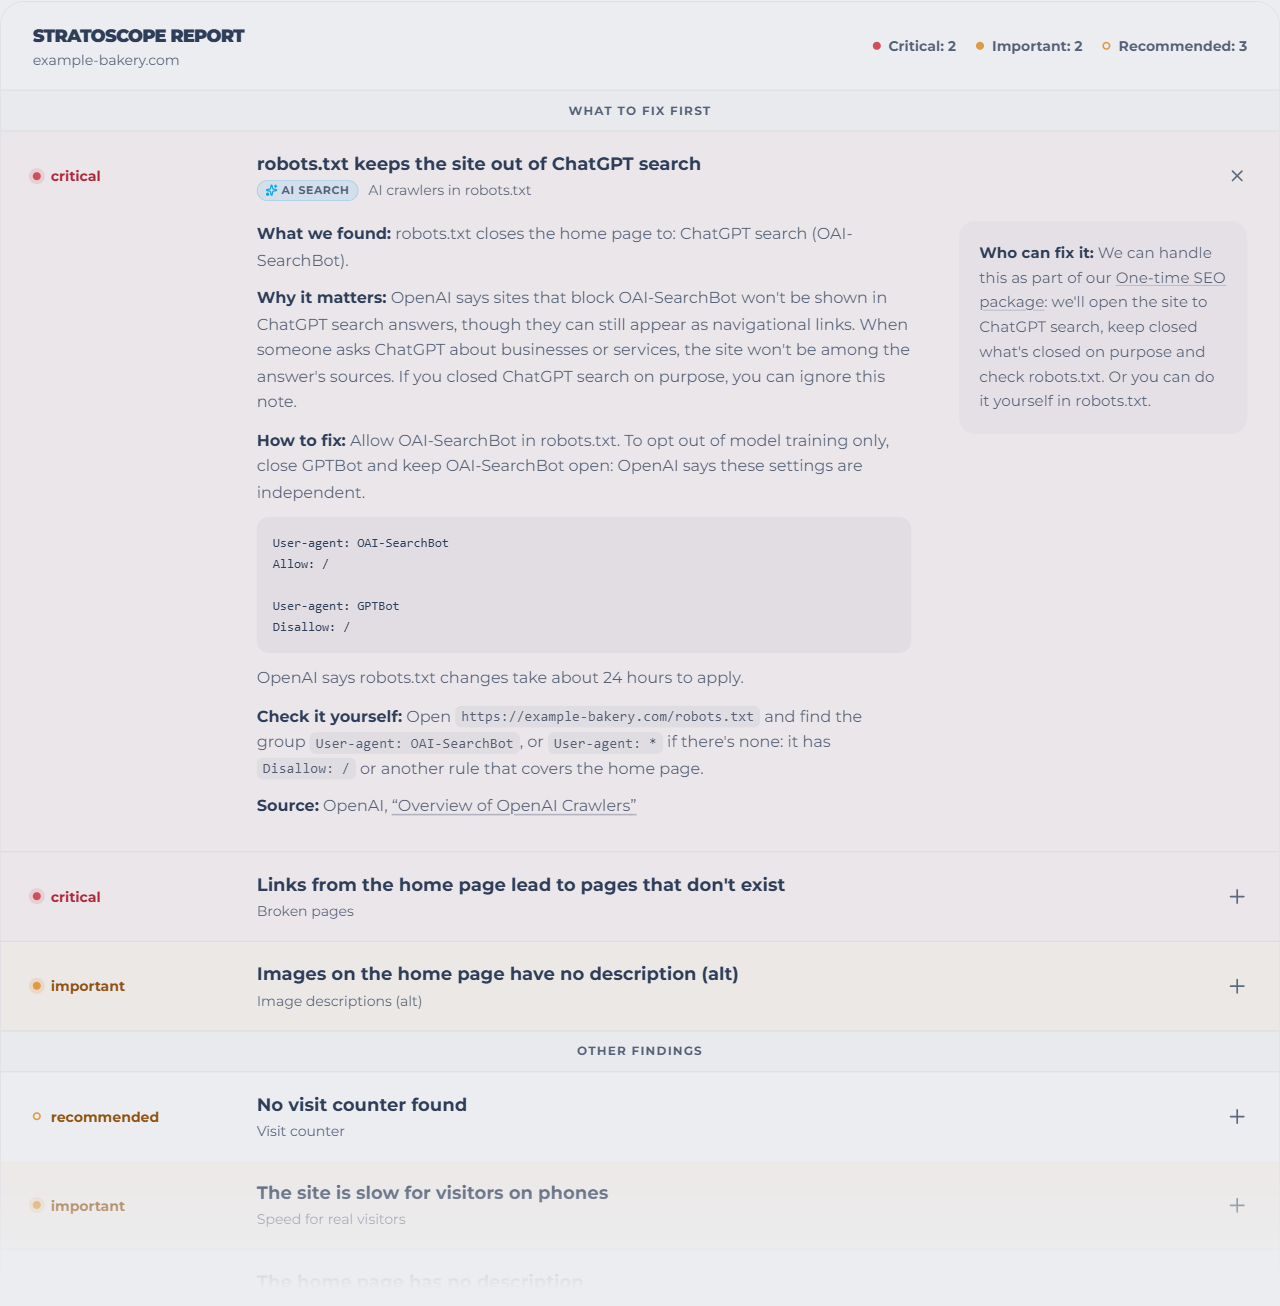
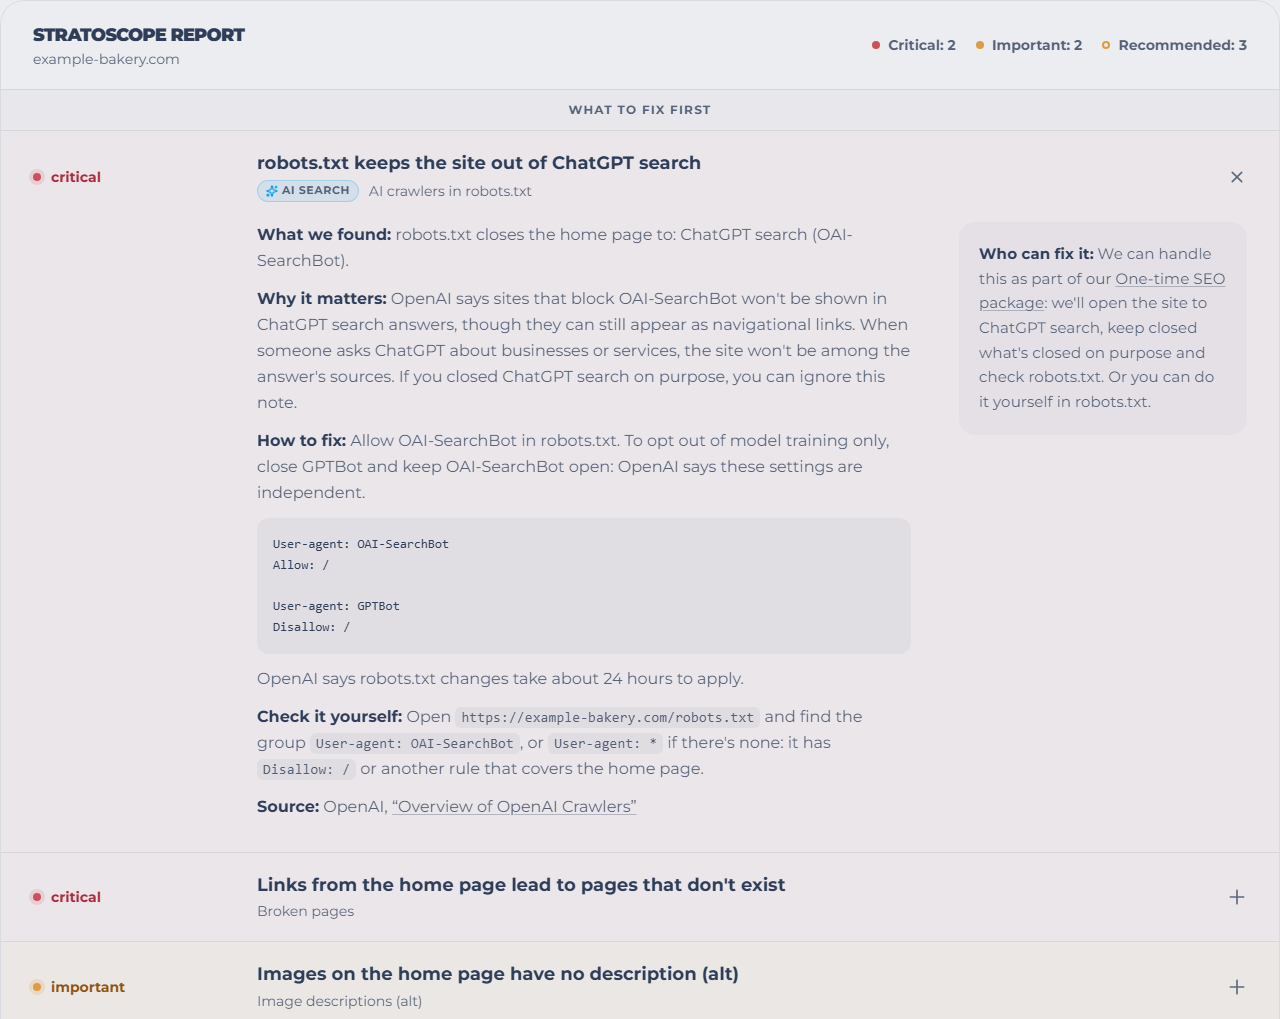
README: how it was built, numbers, runnable tests, new screenshots
The robots.txt excerpt is the fixed matcher: the earlier one slowed down
to seconds per address on a robots.txt of many stars, found by a review
and fixed in the source with a test. The robots.txt and address tests
sit next to their excerpts and run as they are with node --test. "How I
built it" says who decided what, "In numbers" gives the size and age of
the source. Both screenshots are retaken on an emulated phone and a
desktop, cut before the placeholder rows, and the main one heads the
README.

diff --git a/snippets/robots.test.ts b/snippets/robots.test.ts
@@ -1,0 +1,128 @@
+// From Stratoscope: src/lib/scan/robots.test.ts (full file). Source is private.
+import assert from 'node:assert/strict'
+import { test } from 'node:test'
+import { governingAgent, isAllowed, parseRobots } from './robots.ts'
+
+function robots(text: string) {
+  return parseRobots(Buffer.from(text))
+}
+
+function allowed(text: string, path: string, agent = 'googlebot'): boolean {
+  return isAllowed(robots(text), agent, `https://example.com${path}`)
+}
+
+function blockedPaths(text: string, paths: string[]): string[] {
+  return paths.filter((path) => !allowed(text, path))
+}
+
+test('matches path prefixes case-sensitively (Google examples)', () => {
+  const rules = 'User-agent: *\nDisallow: /fish'
+  assert.deepEqual(
+    blockedPaths(rules, ['/fish', '/fish.html', '/fish/salmon.html', '/fishheads', '/fish.php?id=1', '/Fish.asp', '/catfish', '/?id=fish']),
+    ['/fish', '/fish.html', '/fish/salmon.html', '/fishheads', '/fish.php?id=1'],
+  )
+  assert.deepEqual(
+    blockedPaths('User-agent: *\nDisallow: /fish/', ['/fish/', '/fish/?id=1', '/fish', '/fish.html', '/animals/fish/']),
+    ['/fish/', '/fish/?id=1'],
+  )
+})
+
+test('supports * and a final $ (Google examples)', () => {
+  const paths = ['/index.php', '/folder/a.php?x=1', '/a.php/', '/a.php5', '/windows.PHP', '/']
+  assert.deepEqual(blockedPaths('User-agent: *\nDisallow: /*.php', paths), ['/index.php', '/folder/a.php?x=1', '/a.php/', '/a.php5'])
+  assert.deepEqual(blockedPaths('User-agent: *\nDisallow: /*.php$', paths), ['/index.php'])
+  assert.deepEqual(
+    blockedPaths('User-agent: *\nDisallow: /fish*.php', ['/fish.php', '/fishheads/catfish.php?x=1', '/Fish.PHP']),
+    ['/fish.php', '/fishheads/catfish.php?x=1'],
+  )
+})
+
+test('the longest matching rule wins, and allow wins a tie (Google examples)', () => {
+  assert.equal(allowed('User-agent: *\nAllow: /p\nDisallow: /', '/page'), true)
+  assert.equal(allowed('User-agent: *\nAllow: /folder\nDisallow: /folder', '/folder/page'), true)
+  assert.equal(allowed('User-agent: *\nDisallow: /folder\nAllow: /folder', '/folder/page'), true)
+  assert.equal(allowed('User-agent: *\nAllow: /page\nDisallow: /*.htm', '/page.htm'), false)
+  assert.equal(allowed('User-agent: *\nDisallow: /*.ph\nAllow: /page', '/page.php'), true)
+  assert.equal(allowed('User-agent: *\nAllow: /$\nDisallow: /', '/'), true)
+  assert.equal(allowed('User-agent: *\nAllow: /$\nDisallow: /', '/page.htm'), false)
+})
+
+test('an agent follows its own group and ignores the * group', () => {
+  const rules = 'User-agent: *\nDisallow: /\n\nUser-agent: Googlebot\nDisallow: /private'
+  assert.equal(allowed(rules, '/', 'googlebot'), true)
+  assert.equal(allowed(rules, '/private', 'googlebot'), false)
+  assert.equal(allowed(rules, '/', 'stratoscope'), false)
+})
+
+test('combines groups for the same agent and shares a group between agents (RFC 9309)', () => {
+  const rules = [
+    'User-agent: googlebot', 'Disallow: /a',
+    'User-agent: other', 'Disallow: /c',
+    'User-agent: bingbot', 'User-agent: Googlebot/2.1', 'Disallow: /b',
+  ].join('\n')
+  assert.deepEqual(blockedPaths(rules, ['/a', '/b', '/c']), ['/a', '/b'])
+  assert.equal(allowed(rules, '/b', 'bingbot'), false)
+})
+
+test('a crawler can follow another crawler\'s group when it has none of its own, like Applebot follows Googlebot', () => {
+  const rules = 'User-agent: *\nDisallow: /\n\nUser-agent: Googlebot\nDisallow: /private'
+  const applebot = ['Applebot', 'Googlebot']
+  assert.equal(isAllowed(robots(rules), applebot, 'https://example.com/'), true)
+  assert.equal(isAllowed(robots(rules), applebot, 'https://example.com/private'), false)
+  assert.equal(isAllowed(robots(`${rules}\n\nUser-agent: Applebot\nDisallow: /`), applebot, 'https://example.com/'), false)
+  assert.equal(isAllowed(robots('User-agent: *\nDisallow: /'), applebot, 'https://example.com/'), false)
+})
+
+test('names the token whose group applies, or null when none does', () => {
+  const rules = robots('User-agent: *\nDisallow: /tmp\n\nUser-agent: GPTBot\nDisallow: /')
+  assert.equal(governingAgent(rules, 'GPTBot'), 'gptbot')
+  assert.equal(governingAgent(rules, 'ClaudeBot'), '*')
+  assert.equal(governingAgent(rules, ['Applebot', 'GPTBot']), 'gptbot')
+  assert.equal(governingAgent(robots('User-agent: GPTBot\nDisallow: /'), 'ClaudeBot'), null)
+})
+
+test('allows everything when nothing applies', () => {
+  assert.equal(allowed('', '/'), true)
+  assert.equal(allowed('Disallow: /\nUser-agent: *\nDisallow:', '/'), true)
+  assert.equal(allowed('User-agent: bingbot\nDisallow: /', '/'), true)
+  assert.equal(allowed('User-agent: *\nDisallow: /', '/robots.txt'), true)
+})
+
+test('collects sitemaps anywhere without breaking the group', () => {
+  const parsed = robots('User-agent: *\nSitemap: https://example.com/a.xml\nDisallow: /private\nsitemap: https://example.com/b.xml')
+  assert.deepEqual(parsed.sitemaps, ['https://example.com/a.xml', 'https://example.com/b.xml'])
+  assert.equal(isAllowed(parsed, 'googlebot', 'https://example.com/private'), false)
+})
+
+test('handles comments, CRLF, a BOM and letter case in keys', () => {
+  const text = Buffer.concat([
+    Buffer.from([0xef, 0xbb, 0xbf]),
+    Buffer.from('USER-AGENT: * # everyone\r\nDISALLOW: /admin # back office\r\n'),
+  ])
+  assert.equal(isAllowed(parseRobots(text), 'googlebot', 'https://example.com/admin/'), false)
+})
+
+test('matches paths written in Cyrillic against encoded URLs', () => {
+  assert.equal(allowed('User-agent: *\nDisallow: /каталог', '/каталог/стулья'), false)
+  assert.equal(allowed('User-agent: *\nDisallow: /%d0%ba', '/каталог'), false)
+})
+
+test('reads only the first 500 KiB, like Google', () => {
+  const text = `User-agent: *\nDisallow: /a\n#${'x'.repeat(500 * 1024)}\nDisallow: /b`
+  assert.deepEqual(blockedPaths(text, ['/a', '/b']), ['/a'])
+})
+
+test('a hostile pattern does not hang the matcher', () => {
+  const rules = `User-agent: *\nDisallow: /${'*a'.repeat(100)}b`
+  assert.equal(allowed(rules, `/${'a'.repeat(5000)}`), true)
+})
+
+test('a pattern of many stars costs no more than reading it, for every link of a page', () => {
+  // Each * used to build an array as long as the path: 100,000 stars took 6 s for one address.
+  for (const pattern of ['*'.repeat(100_000), '*a'.repeat(50_000)]) {
+    const parsed = robots(`User-agent: *\nDisallow: /${pattern}x`)
+    const start = performance.now()
+    for (let link = 0; link < 50; link++) isAllowed(parsed, 'googlebot', `https://example.com/${'a'.repeat(1000)}${link}`)
+    assert.ok(performance.now() - start < 500, `50 links took ${Math.round(performance.now() - start)} ms`)
+  }
+})

diff --git a/snippets/robots.ts b/snippets/robots.ts
@@ -78,20 +78,24 @@ function normalize(value: string): string {
 }
 
 /**
- * Google's matcher: `*` is any sequence, a final `$` anchors the end. It tracks the path positions reachable
- * so far instead of using a regex, so a hostile pattern cannot make it backtrack for minutes.
+ * Google's matcher: `*` is any sequence, a final `$` anchors the end. The pattern is cut at each `*`, and each piece
+ * is found after the previous one, earliest first: with `*` as the only wildcard the earliest match is never worse, so
+ * one pass decides. Every piece found moves along the path, so a hostile pattern of many stars stops at the path's end.
  */
 function matches(pattern: string, path: string): boolean {
-  let positions = [0]
-  for (let i = 0; i < pattern.length; i++) {
-    const char = pattern[i]
-    if (char === '$' && i === pattern.length - 1) return positions.at(-1) === path.length
-    if (char === '*') {
-      positions = Array.from({ length: path.length - positions[0] + 1 }, (_, k) => positions[0] + k)
-    } else {
-      positions = positions.filter((position) => path[position] === char).map((position) => position + 1)
-      if (positions.length === 0) return false
-    }
+  const anchored = pattern.endsWith('$')
+  const pieces = (anchored ? pattern.slice(0, -1) : pattern).split('*')
+  const first = pieces[0]
+  if (!path.startsWith(first)) return false
+  if (pieces.length === 1) return !anchored || path.length === first.length
+
+  let position = first.length
+  for (let i = 1; i < pieces.length - 1; i++) {
+    if (!pieces[i]) continue
+    const found = path.indexOf(pieces[i], position)
+    if (found < 0) return false
+    position = found + pieces[i].length
   }
-  return true
+  const last = pieces.at(-1)!
+  return anchored ? path.length - last.length >= position && path.endsWith(last) : path.indexOf(last, position) >= 0
 }

diff --git a/snippets/ip-policy.test.ts b/snippets/ip-policy.test.ts
@@ -1,0 +1,54 @@
+// From Stratoscope: src/lib/scan/net/ip-policy.test.ts (full file). Source is private.
+import { test } from 'node:test'
+import assert from 'node:assert/strict'
+import { isPublicAddress } from './ip-policy.ts'
+
+const PUBLIC = [
+  '8.8.8.8',
+  '1.1.1.1',
+  '172.32.0.1',
+  '2606:4700:4700::1111',
+  '2a00:1450:4001:82a::200e',
+]
+
+const BLOCKED = [
+  '0.0.0.0',
+  '10.1.2.3',
+  '100.64.0.1',
+  '100.100.100.200',
+  '127.0.0.1',
+  '127.255.255.254',
+  '169.254.169.254',
+  '172.16.0.1',
+  '172.31.255.255',
+  '192.168.1.1',
+  '198.18.0.1',
+  '203.0.113.5',
+  '224.0.0.1',
+  '255.255.255.255',
+  '::',
+  '::1',
+  'fe80::1',
+  'fe80::1%1',
+  'fc00::1',
+  'fd12:3456::1',
+  'fd00:ec2::254',
+  'ff02::1',
+  '::ffff:127.0.0.1',
+  '::ffff:7f00:1',
+  '::ffff:8.8.8.8',
+  '64:ff9b::7f00:1',
+  '2001:db8::1',
+  '2001:0:4136:e378::1',
+  '2002:7f00:1::1',
+  'localhost',
+  'not-an-ip',
+]
+
+test('allows public unicast addresses', () => {
+  for (const address of PUBLIC) assert.equal(isPublicAddress(address), true, address)
+})
+
+test('blocks private, reserved and disguised addresses', () => {
+  for (const address of BLOCKED) assert.equal(isPublicAddress(address), false, address)
+})

diff --git a/README.md b/README.md
@@ -4,13 +4,26 @@ A free check of whether Google and AI assistants can find and read a website. It
 
 **Source is private. This repository documents the architecture and includes selected code excerpts.**
 
+![The report on a made-up site: what to fix first, with one finding open](docs/report-findings.png)
+
+The same report on a phone: [docs/report-phone.png](docs/report-phone.png).
+
 ## Why it exists
 
 Stratoscope is the lead funnel of Stratosly, my web and SEO studio. A site owner gets a free report that puts the most serious problems first. The report opens once they leave an email, the link arrives there, and I get a note in Telegram. The check has to be worth running on its own, so every finding can be verified without trusting me.
 
-## My role
+## How I built it
 
-I designed and built it on my own: the product, the architecture, the code, the report texts in English and Russian, and the launch. I used Claude Code as a coding assistant; I made the decisions and reviewed the work.
+I led the development end to end and used AI coding agents as tools: Claude Code, OpenAI Codex and Google Gemini. The commits went through Claude Code, so they carry its co-author line.
+
+- **Decisions:** the product and its place in my studio's lead funnel, the architecture, what the scan checks and how serious each finding is, every report text in English and Russian, the limits and what is stored, the launch.
+- **Process:** each part planned before code and covered by tests, nothing merged without my approval.
+
+## In numbers
+
+- Scan engine: 143 TypeScript files, about 14,000 lines, with 83 test files of about 7,500 lines.
+- Web layer (the form, the progress screen, the report pages, the API routes): 58 files, about 5,200 lines.
+- About 150 commits over seven weeks from 28 September 2026; live since 12 October.
 
 ## What it does
 
@@ -19,10 +32,6 @@ A visitor enters a site address and, while the scan runs, an email. In up to 90 
 The report comes in four parts: what to fix first, other findings, what passed, and what could not be checked and why. Every finding carries the facts it rests on and a way to see the problem yourself, such as "open view-source: and search for `<a href`", so nothing has to be taken on trust.
 
 The same engine also runs as a command line tool, without the web layer.
-
-![The report on a made-up site: what to fix first, with one finding open](docs/report-findings.png)
-
-The same report on a phone: [docs/report-phone.png](docs/report-phone.png).
 
 ## What it checks
 
@@ -85,14 +94,15 @@ flowchart TD
 - **No language model in the pipeline.** Every verdict is computed by code. A page cannot talk its way into a better report, because nothing reads its text as instructions.
 - **One door to scanned sites.** Every request to a scanned site and to Google's APIs goes through `safe-fetch`, built on `node:https` and `node:net` without packages. Only public addresses and ports 80 and 443. The IP is checked at connect time and again on every redirect, so a DNS answer that changes between the check and the connection does not get through. Sizes and times are capped. A request that carries an API key never follows a redirect to another site.
 - **Hostile pages stay data.** HTML is parsed with parse5, JSON-LD with `JSON.parse`, and script files are searched as text. Nothing from a scanned site is executed, and page bodies are never stored: a report keeps short facts about the home page (its title, description and up to five H1 headings, each cut to 300 characters) and what its findings quote. Reading has its own budget: 2 seconds a page, 6 seconds for all pages of one scan.
-- **robots.txt by RFC 9309, without regular expressions.** The matcher tracks reachable positions instead of backtracking, so a hostile pattern cannot keep the server busy for minutes.
+- **robots.txt by RFC 9309.** The matcher cuts each pattern at `*` and finds the pieces left to right in one pass instead of using a regular expression, so even 500 KiB of stars takes milliseconds per address. A review by a separate AI agent found that the earlier matcher slowed down to seconds per address on such a file; the fix and its test are in the excerpts.
 - **Little personal data.** The email is kept because the report goes to it: for a week, or until the person unsubscribes if they agreed to further letters. A visitor's IP is stored only as an HMAC with a server secret, enough to count scans and useless to anyone who reads the store. A report link holds 192 random bits, and the store keeps only its hash.
 - **Abuse limits.** Cloudflare Turnstile, three scans a day per IP address, three report emails a day per email address, one scan of a site a week (a second request shows the same report).
 - **Thin integrations.** Upstash Redis, Resend, Telegram and Turnstile are called over HTTP with `fetch`, without their SDKs. Each takes the `fetch` function as a parameter, so tests pass a fake one.
 
 ## Tests
 
-- 83 unit test files, 578 tests with `node:test`: every check against HTML built in the tests and fake responses, plus edge cases: hostile robots.txt patterns, redirects into private networks, pages that answer every address with 200.
+- 83 unit test files, 579 tests with `node:test`: every check against HTML built in the tests and fake responses, plus edge cases: hostile robots.txt patterns, redirects into private networks, pages that answer every address with 200.
+- Two of them are next to their excerpts: [snippets/robots.test.ts](snippets/robots.test.ts) (Google's own examples and hostile patterns) and [snippets/ip-policy.test.ts](snippets/ip-policy.test.ts) (private, reserved and disguised addresses).
 - Playwright end-to-end tests for the visitor's path from the form to the report.
 
 ## Stack
@@ -104,14 +114,16 @@ TypeScript, Node.js (`node:https`, `node:net`, `node:dns`, `node:crypto`), Next.
 | File | What it shows |
 |---|---|
 | [snippets/ip-policy.ts](snippets/ip-policy.ts) | Which addresses count as public, with `node:net` BlockList |
+| [snippets/ip-policy.test.ts](snippets/ip-policy.test.ts) | Its tests: public, private, reserved and disguised addresses |
 | [snippets/safe-fetch.ts](snippets/safe-fetch.ts) | The outgoing client: address check at connect time, redirects, limits, retries |
 | [snippets/robots.ts](snippets/robots.ts) | robots.txt parser and matcher by RFC 9309 |
+| [snippets/robots.test.ts](snippets/robots.test.ts) | Its tests: Google's examples, groups, encoding, hostile patterns |
 | [snippets/ai-access.ts](snippets/ai-access.ts) | How robots.txt treats each AI crawler, and the llms.txt fact |
 | [snippets/collect.ts](snippets/collect.ts) | The four collection waves under one deadline and a concurrency limit |
 | [snippets/text-without-js.ts](snippets/text-without-js.ts) | One check end to end: what AI crawlers see without JavaScript |
 | [snippets/access.ts](snippets/access.ts) | Hashed visitor addresses, secret report links, daily limits |
 
-Excerpts are copied from the private source with internal references removed. They import modules that are not included, so they are for reading, not for running.
+Excerpts are copied from the private source with internal references removed. Most import modules that are not included, so they are for reading. The robots.txt and address excerpts are full files, and their tests run as they are, with nothing to install: `node --test "snippets/*.test.ts"` on Node.js 24.
 
 ## Author
 
